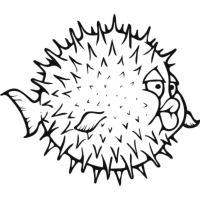
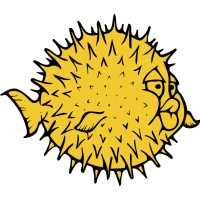
tux-mc 1.2.0: cleaner OpenBSD and LFS capes, drop Theme/Aurora/Ember/Ocean
- OpenBSD: Puffy filled yellow with black outlines on dark blue
- LFS: a jigsaw piece with LFS on navy, instead of the blurry puzzle-Tux crop
- removed the Theme, Aurora, Ember and Ocean capes; configs wearing one
  switch to Tux (mod and launcher)
- launcher texts: client capes are no longer only visible to you

diff --git a/mod/native/capes.c b/mod/native/capes.c
@@ -24,25 +24,6 @@ static uint32_t over(uint32_t dst, uint32_t src)
     return 0xFF000000u | (mix(dst, src, (src >> 24) / 255.0f) & 0xFFFFFF);
 }
 
-static int ell(float x, float y, float rx, float ry) { return x * x / (rx * rx) + y * y / (ry * ry) <= 1; }
-
-/* a penguin centred at (0.5, ~0.5); 0 = not on it */
-static uint32_t penguin(float u, float v, uint32_t belly, uint32_t body, uint32_t beak)
-{
-    float x = (u - 0.5f) * 10 / 16, y = v - 0.5f;
-    if (ell(x, y - 0.06f, 0.2f, 0.26f))
-        return ell(x, y - 0.1f, 0.13f, 0.19f) ? belly : body;
-    if (ell(x, y + 0.27f, 0.13f, 0.12f)) {
-        if (ell(x - 0.045f, y + 0.29f, 0.025f, 0.03f) || ell(x + 0.045f, y + 0.29f, 0.025f, 0.03f))
-            return ell(x - 0.045f, y + 0.285f, 0.011f, 0.014f) || ell(x + 0.045f, y + 0.285f, 0.011f, 0.014f) ? body
-                                                                                                                : belly;
-        return ell(x, y + 0.22f, 0.055f, 0.03f) ? beak : body;
-    }
-    if (ell(x - 0.09f, y - 0.33f, 0.08f, 0.035f) || ell(x + 0.09f, y - 0.33f, 0.08f, 0.035f))
-        return beak;
-    return 0;
-}
-
 static float hash(float u, float v, int cells)
 {
     uint64_t h = (uint64_t)(int)(u * cells * 10 / 16.0f) * 0x9E3779B97F4A7C15ull ^
@@ -77,8 +58,8 @@ static const struct {
     {"tux", 0xFF1A1A1A, 0xFF2C2C2C, 1},     {"gentoo", 0xFF625A8C, 0xFF2E2848, 0},
     {"steamos", 0xFF1B2838, 0xFF0B0F14, 0}, {"arch", 0xFF1E2229, 0xFF0B0D11, 0},
     {"debian", 0xFFF4F4F4, 0xFFD6D6D6, 0},  {"mint", 0xFF2E2E2E, 0xFF141414, 0},
-    {"freebsd", 0xFF262626, 0xFF0D0D0D, 0}, {"openbsd", 0xFFF5D547, 0xFFD9A814, 0},
-    {"lfs", 0xFF2A3F5F, 0xFF0F1A2B, 0},     {"crux", 0xFF1F3354, 0xFF0C1626, 0},
+    {"freebsd", 0xFF262626, 0xFF0D0D0D, 0}, {"openbsd", 0xFF2B4A78, 0xFF101C30, 0},
+    {"lfs", 0xFF1F3B63, 0xFF0B1424, 0},     {"crux", 0xFF1F3354, 0xFF0C1626, 0},
 };
 
 static uint32_t sample_nearest(const tuxmc_img_t *im, float u, float v)
@@ -99,15 +80,6 @@ int tuxmc_cape_logo(const char *id)
 /* u: 0..1 left->right, v: 0..1 top->bottom of the 10x16 outside face */
 static uint32_t color(const char *id, float u, float v, const tuxmc_pal_t *p, const tuxmc_img_t *img)
 {
-    if (!strcmp(id, "theme")) {
-        float bx = fminf(fminf(u, 1 - u) * 10, fminf(v, 1 - v) * 16);
-        if (bx < 0.45f)
-            return p->accent;
-        if (bx < 0.6f)
-            return p->bg;
-        uint32_t c = penguin(u, v * 1.6f - 0.25f, p->fg_bright, p->bg, p->warn);
-        return c ? c : mix(p->accent, p->selection, v);
-    }
     for (unsigned i = 0; i < sizeof LOGOS / sizeof *LOGOS; i++)
         if (!strcmp(LOGOS[i].id, id)) {
             uint32_t c = mix(LOGOS[i].top, LOGOS[i].bottom, v);
@@ -134,24 +106,6 @@ static uint32_t color(const char *id, float u, float v, const tuxmc_pal_t *p, co
         if (hash(u, v, 60) > 0.993f)
             return 0xFFBFD4FF;
         return c;
-    }
-    if (!strcmp(id, "aurora")) {
-        uint32_t c = mix(0xFF04110F, 0xFF0B1A2E, v);
-        for (int i = 0; i < 3; i++) {
-            float band = 0.25f + i * 0.22f + 0.06f * sinf(u * 9 + i * 2.1f);
-            c = mix(c, i == 1 ? 0xFF9B5DE5 : 0xFF3CF0A8, fmaxf(0, 1 - fabsf(v - band) * 14) * 0.85f);
-        }
-        return c;
-    }
-    if (!strcmp(id, "ember")) {
-        float n = 0.5f + 0.25f * sinf(u * 23 + v * 7) + 0.25f * sinf(u * 5 - v * 19);
-        float t = fmaxf(0, fminf(1, (1 - v) * 1.3f - 0.3f + n * 0.4f));
-        return mix(mix(0xFF120403, 0xFFB3260E, t), 0xFFFFC14D, fmaxf(0, t - 0.65f) * 2.6f);
-    }
-    if (!strcmp(id, "ocean")) {
-        float wave = sinf(u * 12 + sinf(v * 20) * 1.5f);
-        uint32_t c = mix(0xFF0B3C5D, 0xFF021526, v);
-        return fabsf(fmodf(v * 10 + wave * 0.12f + 10, 1.0f) - 0.5f) < 0.04f ? mix(c, 0xFF8FE3FF, 0.6f) : c;
     }
     if (!strcmp(id, "synth")) {
         float sx = (u - 0.5f) * 10 / 16, sy = v - 0.33f;
@@ -184,8 +138,8 @@ static void face(uint32_t *out, int s, const char *id, int fx, int fy, const tux
             out[(fy * s + y) * 64 * s + fx * s + x] = color(id, (x + 0.5f) / w, (y + 0.5f) / h, p, img);
 }
 
-const char *const tuxmc_cape_ids[] = {"theme",  "tux",     "gentoo", "steamos", "arch",  "debian", "mint",  "freebsd", "openbsd",
-                                      "lfs",    "crux",    "stars",  "aurora",  "ember", "ocean",  "synth", "image",   NULL};
+const char *const tuxmc_cape_ids[] = {"tux",     "gentoo", "steamos", "arch", "debian", "mint",  "freebsd",
+                                      "openbsd", "lfs",    "crux",    "stars", "synth",  "image", NULL};
 
 void tuxmc_cape(const char *id, int s, const tuxmc_pal_t *p, const tuxmc_img_t *img, uint32_t *out)
 {

diff --git a/launcher/src/mc.c b/launcher/src/mc.c
@@ -432,10 +432,9 @@ GtkWidget *mc_stage(app_t *a, mc3d_t *v, GtkDrawingAreaDrawFunc draw)
 
 /* ---- capes on the home page ---- */
 static const struct { const char *id, *name; } TUX_CAPES[] = {
-    {"theme", "Theme"},     {"tux", "Tux"},         {"gentoo", "Gentoo"},   {"steamos", "SteamOS"},
-    {"arch", "Arch"},       {"debian", "Debian"},   {"mint", "Mint"},       {"freebsd", "FreeBSD"},
-    {"openbsd", "OpenBSD"}, {"lfs", "LFS"},         {"crux", "CRUX"},       {"stars", "Starfield"},
-    {"aurora", "Aurora"},   {"ember", "Ember"},     {"ocean", "Ocean"},     {"synth", "Synthwave"},
+    {"tux", "Tux"},         {"gentoo", "Gentoo"}, {"steamos", "SteamOS"},  {"arch", "Arch"},
+    {"debian", "Debian"},   {"mint", "Mint"},     {"freebsd", "FreeBSD"},  {"openbsd", "OpenBSD"},
+    {"lfs", "LFS"},         {"crux", "CRUX"},     {"stars", "Starfield"},  {"synth", "Synthwave"},
     {"image", "Picture…"},  {"none", "Off"},
 };
 #define NTUX (int)G_N_ELEMENTS(TUX_CAPES)
@@ -697,7 +696,7 @@ static void on_picture_done(GObject *src, GAsyncResult *res, gpointer data)
     if (px) {
         mc_tuxmc_set(a, "capeImage", p);
         set_tux_cape(a, "image");
-        mc_status(a, "Picture cape: only you see it, live in game");
+        mc_status(a, "Picture cape: other tux-mc players see it too (if they share pictures)");
     } else {
         mc_status(a, "Couldn't read that picture");
     }
@@ -741,14 +740,18 @@ static void on_tux_chip(GtkButton *b, gpointer data)
     }
     set_tux_cape(a, TUX_CAPES[i].id);
     mc_status(a, !strcmp(TUX_CAPES[i].id, "none") ? "Client cape off: you see your Mojang cape"
-                                                  : "Client cape %s: only you see it, live in game", TUX_CAPES[i].name);
+                                                  : "Client cape %s: other tux-mc players see it too", TUX_CAPES[i].name);
 }
 
 static void load_tux_cape(app_t *a)
 {
     a->tux_cape = mc_tuxmc_get(a, "cape");
-    if (!a->tux_cape)
-        a->tux_cape = g_strdup("theme");
+    /* no cape yet, or one that was removed in 1.2: Tux */
+    if (!a->tux_cape || !strcmp(a->tux_cape, "theme") || !strcmp(a->tux_cape, "aurora") ||
+        !strcmp(a->tux_cape, "ember") || !strcmp(a->tux_cape, "ocean")) {
+        g_free(a->tux_cape);
+        a->tux_cape = g_strdup("tux");
+    }
 }
 
 /* a chip's swatch: the cape itself, its outside face */
@@ -1024,7 +1027,7 @@ GtkWidget *mc_page_home(app_t *a)
     g_signal_connect(a->none_tile, "clicked", G_CALLBACK(on_no_cape), a);
     gtk_box_append(GTK_BOX(row), a->none_tile);
     gtk_box_append(GTK_BOX(cc), row);
-    GtkWidget *cl = mc_label("tux client cape: only you see it.", "dim");
+    GtkWidget *cl = mc_label("tux client cape: other tux-mc players see it too.", "dim");
     gtk_widget_set_margin_top(cl, 6);
     gtk_box_append(GTK_BOX(cc), cl);
     GtkWidget *flow = gtk_flow_box_new();

diff --git a/mod/src/main/java/dev/tux/mc/Sync.java b/mod/src/main/java/dev/tux/mc/Sync.java
@@ -296,8 +296,6 @@ public final class Sync {
 
     private static String capeKey() {
         String c = Config.cape;
-        if (c.equals("theme"))
-            return c + Theme.accent + Theme.selection + Theme.bg + Theme.fgBright + Theme.warn;
         if (c.equals("image"))
             return c + Config.syncPicture + Config.capeImage + "@" + mtime(Config.capeImage);
         return c;
@@ -307,12 +305,6 @@ public final class Sync {
         JsonObject d = new JsonObject();
         String c = Config.cape;
         d.addProperty("c", Capes.ALL.containsKey(c) || c.equals("official") || c.equals("none") ? c : "official");
-        if (c.equals("theme")) {
-            JsonArray p = new JsonArray();
-            for (int v : new int[] {Theme.accent, Theme.selection, Theme.bg, Theme.fgBright, Theme.warn})
-                p.add(v);
-            d.add("p", p);
-        }
         String path = Config.capeImage;
         boolean picture = c.equals("image") && Config.syncPicture && !path.isBlank();
         work.execute(() -> {
@@ -535,14 +527,6 @@ public final class Sync {
         String c = d.get("c").getAsString();
         int[] pal = null, img = null;
         int w = 0, h = 0;
-        if (c.equals("theme") && d.has("p")) {
-            JsonArray p = d.getAsJsonArray("p");
-            if (p.size() == 5) {
-                pal = new int[5];
-                for (int i = 0; i < 5; i++)
-                    pal[i] = p.get(i).getAsInt() | 0xFF000000;
-            }
-        }
         if (c.equals("image")) {
             if (!Config.syncPicture || !d.has("i"))
                 c = "official";

diff --git a/mod/src/main/java/dev/tux/mc/Capes.java b/mod/src/main/java/dev/tux/mc/Capes.java
@@ -23,7 +23,6 @@ public final class Capes {
     /** id -> display name, in menu order */
     public static final Map<String, String> ALL = new LinkedHashMap<>();
     static {
-        ALL.put("theme", "Theme");
         ALL.put("tux", "Tux");
         ALL.put("gentoo", "Gentoo");
         ALL.put("steamos", "SteamOS");
@@ -35,9 +34,6 @@ public final class Capes {
         ALL.put("lfs", "LFS");
         ALL.put("crux", "CRUX");
         ALL.put("stars", "Starfield");
-        ALL.put("aurora", "Aurora");
-        ALL.put("ember", "Ember");
-        ALL.put("ocean", "Ocean");
         ALL.put("synth", "Synthwave");
         ALL.put("image", "Picture");
     }
@@ -58,8 +54,7 @@ public final class Capes {
     private static void invalidate() {
         if (themeDirty) {
             themeDirty = false;
-            made.remove("theme");
-            previews.remove("theme");
+            /* no cape uses the theme colours any more; kept for the hook in Theme */
         }
         long now = System.currentTimeMillis();
         if (now - imageChecked < 2000)
@@ -105,7 +100,7 @@ public final class Capes {
     public static ClientAsset.Texture remote(java.util.UUID u, Sync.RemoteCape c) {
         if (c == null || c.id().equals("official") || c.id().equals("none"))
             return null;
-        boolean own = (c.id().equals("theme") && c.pal() != null) || c.id().equals("image");
+        boolean own = c.id().equals("image");
         if (!own)
             return get(c.id());
         Made m = remote.get(u);

diff --git a/mod/src/main/java/dev/tux/mc/Config.java b/mod/src/main/java/dev/tux/mc/Config.java
@@ -32,7 +32,7 @@ public final class Config {
     public static float zoomFov = 0.25f;
     public static boolean zoomToggle = false;       /* press once instead of holding */
     public static boolean emoteCamera = true;
-    public static String cape = "theme";            /* a Capes id, "official" or "none" */
+    public static String cape = "tux";              /* a Capes id, "official" or "none" */
     public static String capeImage = "";            /* png for the "image" cape */
     /* sharing: capes + emotes for other tux-mc players, over public Nostr relays */
     public static boolean sync = true;
@@ -95,6 +95,11 @@ public final class Config {
                         f.set(null, v);
                 } catch (NumberFormatException ignored) {
                 }
+            }
+            /* capes that were removed in 1.2: wear Tux instead of nothing */
+            if (java.util.Set.of("theme", "aurora", "ember", "ocean").contains(cape)) {
+                cape = "tux";
+                save();
             }
         } catch (Exception e) {
             TuxMc.LOG.warn("tuxmc: config: {}", e.toString());

diff --git a/mod/src/main/java/dev/tux/mc/ui/TuxScreen.java b/mod/src/main/java/dev/tux/mc/ui/TuxScreen.java
@@ -492,7 +492,7 @@ public class TuxScreen extends Screen {
         ids.add("official");
         ids.addAll(Capes.ALL.keySet());
         ids.add("none");
-        int cols = 7, gap = 8, rows = (ids.size() + cols - 1) / cols;
+        int cols = 5, gap = 8, rows = (ids.size() + cols - 1) / cols;
         int bw = (w - gap * (cols - 1)) / cols, bh = Math.min(82, (h - 16 - gap * (rows - 1)) / rows);
         int i = 0;
         for (String id : ids) {

diff --git a/README.md b/README.md
@@ -48,7 +48,7 @@ Options:
 - **Players near**: an alert and a HUD count for players within a radius you pick (16 to 256 blocks, or the whole render distance).
 - **Hit delay fix**: on modern versions, a click that hits air blocks your clicks for half a second, so in 1.8-style PvP many hits are never sent. This removes that block. It's on by default; turn it off under Settings → Combat. It isn't on Hypixel's list of allowed mods, so whether you use it there is up to you.
 - **Emote wheel** on `.`: wave, dance, sit, lay, clap, spin, bow, dab.
-- **Capes**: Tux, Gentoo, SteamOS, Arch, Debian, Mint, FreeBSD, OpenBSD, Linux from Scratch, CRUX, a few drawn ones (Starfield, Aurora, Ember, Ocean, Synthwave), a cape that follows your theme, and a cape from your own picture.
+- **Capes**: Tux, Gentoo, SteamOS, Arch, Debian, Mint, FreeBSD, OpenBSD, Linux from Scratch, CRUX, two drawn ones (Starfield, Synthwave), and a cape from your own picture.
 - **Zoom** on C, fullbright, an info HUD, armor and totem counts, and a streamer mode that hides coordinates.
 - **Auto reconnect** after a kick.
 - **No block limit** for `/fill`, `/clone` and `/fillbiome` in singleplayer and LAN.
@@ -107,7 +107,7 @@ Minecraft 26.x ships unobfuscated, so the mod builds with plain `javac` against 
 - The Debian swirl is the Debian Open Use Logo.
 - The Arch, FreeBSD, OpenBSD and Mint marks come from [Simple Icons](https://simpleicons.org) (CC0). The Mint logo is from Wikimedia Commons.
 - The SteamOS mark comes from Steam's own boot image.
-- The Linux from Scratch and CRUX logos come from their websites.
+- The CRUX logo comes from crux.nu. The Linux from Scratch cape is a jigsaw piece drawn for tux-mc.
 
 All logos and names belong to their projects and are only used here as fan capes. tux-mc isn't affiliated with Mojang, Microsoft, Prism Launcher, Valve, or any of these projects.
 
